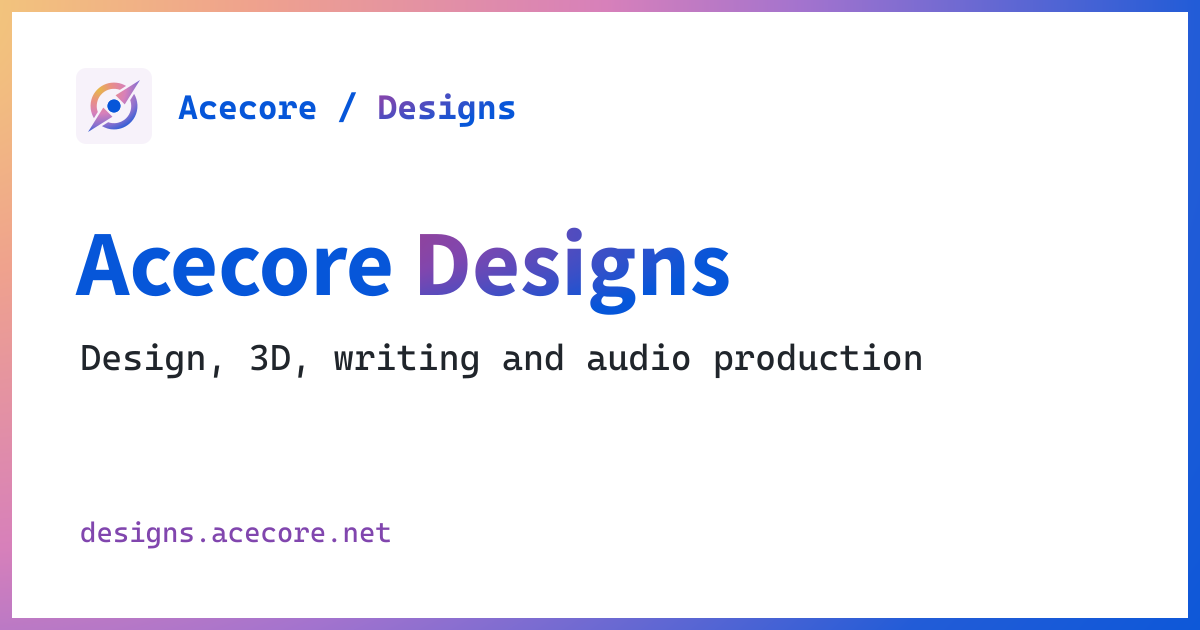
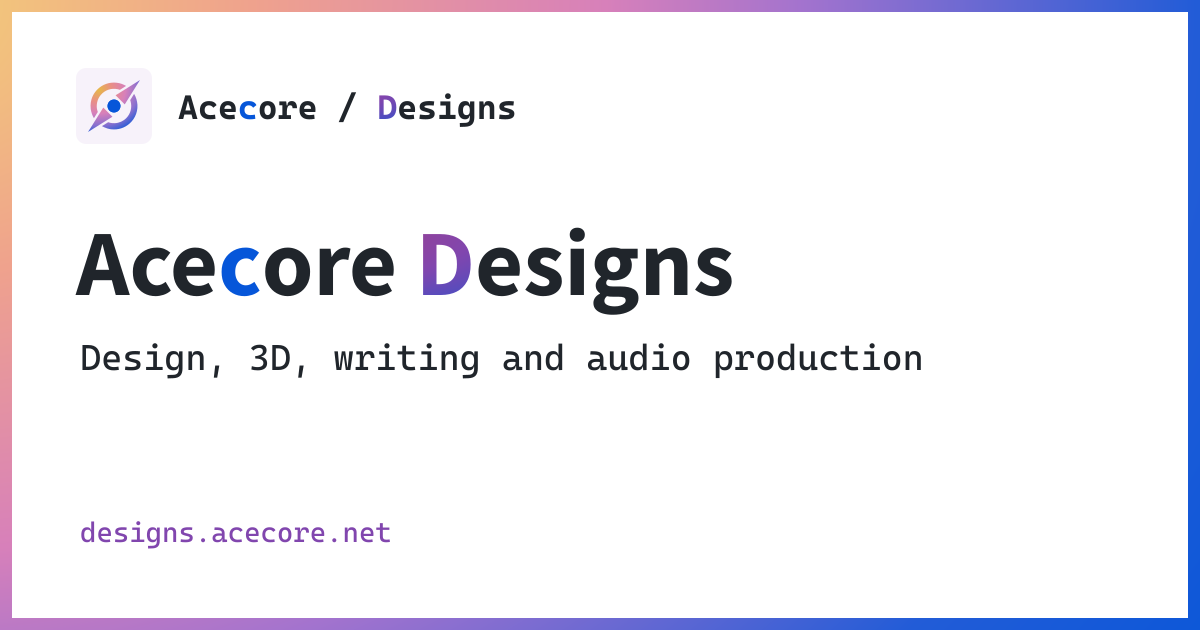
fix: ブランド名を部分着色しロゴの円形クリップを除去

Changed region(s): [[0.2158, 0.3619, 0.6167, 0.5127], [0.1542, 0.1508, 0.4317, 0.2111], [0.0617, 0.3619, 0.185, 0.4825]]

diff --git a/src/styles/brand.css b/src/styles/brand.css
@@ -15,13 +15,20 @@
     linear-gradient(var(--wash), var(--wash)) padding-box,
     var(--paint) border-box;
 }
-.brand-corporate-name {
+.brand-corporate-name,
+.brand-service-name {
+  color: var(--brand-neutral);
+  -webkit-text-fill-color: var(--brand-neutral);
+  background: none;
+  white-space: nowrap;
+}
+.brand-corporate-name > .brand-letter {
   color: #0656d9;
   -webkit-text-fill-color: #0656d9;
-  background: none;
 }
-.brand-service-name {
+.brand-service-name > .brand-letter {
   color: var(--ink-accent);
+  -webkit-text-fill-color: var(--ink-accent);
 }
 :root {
   --paint:
@@ -61,7 +68,7 @@
   --ink-accent: #8146ae;
   --wash: #f7f2fa;
 }
-.brand-service-name {
+.brand-service-name > .brand-letter {
   display: inline-block;
   line-height: 1.4;
   padding-block: 0.08em;
@@ -74,7 +81,7 @@
   -webkit-text-fill-color: transparent;
 }
 @media (forced-colors: active) {
-  .brand-service-name {
+  .brand-service-name > .brand-letter {
     background: none;
     color: CanvasText;
     -webkit-text-fill-color: CanvasText;

diff --git a/docs/brand-color-guidelines.md b/docs/brand-color-guidelines.md
@@ -1,14 +1,16 @@
 # Designsのブランドカラー
 
-2026-10-24、外周のテーマ彩色と中央の単色公式青を適用。[Acecore共通正本](https://github.com/acecore-systems/acecore-net/blob/de50138c0e98d68c767bac78163671e0cb68d5dc/docs/03_詳細設計/07_ブランドカラーと球状グラデーション.md)をUI・ロゴ変更前に読む。このcommit permalinkを承認版として固定し、今後の正本は[mainの同文書](https://github.com/acecore-systems/acecore-net/blob/main/docs/03_詳細設計/07_ブランドカラーと球状グラデーション.md)（net PR314マージ後）。現時点はDraft Previewで本番未反映。
+2026-10-24、外周のテーマ彩色と中央の単色公式青を適用。[Acecore共通正本](https://github.com/acecore-systems/acecore-net/blob/f9bd3f77d9c62321528370fdec24fe5e71da4c20/docs/03_詳細設計/07_ブランドカラーと球状グラデーション.md)をUI・ロゴ変更前に読む。このcommit permalinkを承認版として固定し、今後の正本は[mainの同文書](https://github.com/acecore-systems/acecore-net/blob/main/docs/03_詳細設計/07_ブランドカラーと球状グラデーション.md)（net PR314マージ後）。現時点はDraft Previewで本番未反映。
 
 - 明背景は外周4描画pathに同一theme radial、中央2描画pathは背景に関係なく単色#0656d9。外周の黒/白材質区分は復活させず、path/clip・比率・余白を保持する。
 - 色背景では外周は白無地、中央は単色#0656d9。旧「中央も全白」は最新ユーザー指示で失効。faviconも同じ中央色を保持し、文書imgは実背景で明示選択する。
 - 文書imgは白背景用/logo.svgまたはテーマ背景用/logo-on-dark.svgを明示選択。専用/favicon.svgだけが明外観の外周テーマ色と暗外観のテーマ背景＋白い外周へ切り替わり、中央は常に青とする。OS darkで白headerのimgを白くしない。
 - CSSは--logo-paint・--logo-on-theme・--logo-center・--logo-theme-backgroundへ同期。旧--sphere-paintと白い光沢の重ねを廃止。座標と停止点は共通正本を参照する。
-- Acecore文字は共通青#0656d9、Systems紫#8950c5、Schools緑#39a86b、Designsは読みやすい多色。通常見出し・本文・料金は中立色#20252b、白主体の使用量を維持。色面を増やす目的ではない。
+- wordmarkはAcecoreの2つ目のc（index3）だけ共通青#0656d9、子名は頭文字だけSystems紫/Schools緑/Designs多色。残りは中立色#20252b。通常見出し・本文・料金は中立色#20252b、白主体の使用量を維持。色面を増やす目的ではない。
 - 元写真・Hatt・作品・図・価格・本文・翻訳・既存機能は不変。承認されたロゴSVGとコード生成ブランドOGだけを同期し、写真OGを差し替えない。
 
 desktop/mobile、OS外観、小さいfavicon、既存header/footer、OGと形状保全を確認する。build・format・diff checkと必要な既存検証を行い、CI・Preview・本番を区別する。過去のgroup-ui-standard.mdと旧承認HTMLは履歴として参照し、最新の本ガイドを優先する。
 
-Acecore文字はheader/footer/OG等で常に#0656d9、子名だけ事業色。Designsの文字gradientはinline-blockと余裕ある行高で描き、CTA/footer境界の帯はfooter側の1本とする。pinch zoomは維持する。
+header/footer/部門ブランド見出し/OGのwordmarkは色付き1文字のみを分け、余計な空白・改行を加えずtextContentと読み上げを保つ。通常本文中の社名は細分化しない。DesignsのDのgradientはinline-blockと余裕ある行高で描き、CTA/footer境界の帯はfooter側の1本とする。pinch zoomは維持する。
+
+ロゴimgの円形border-radiusやclip/maskで矢印先端を隠さない。Systems/Schools footerの旧50% radiusと4px paddingは除去し、元SVGのviewBox/path/clipは維持。中央丸は常に単色公式青。
